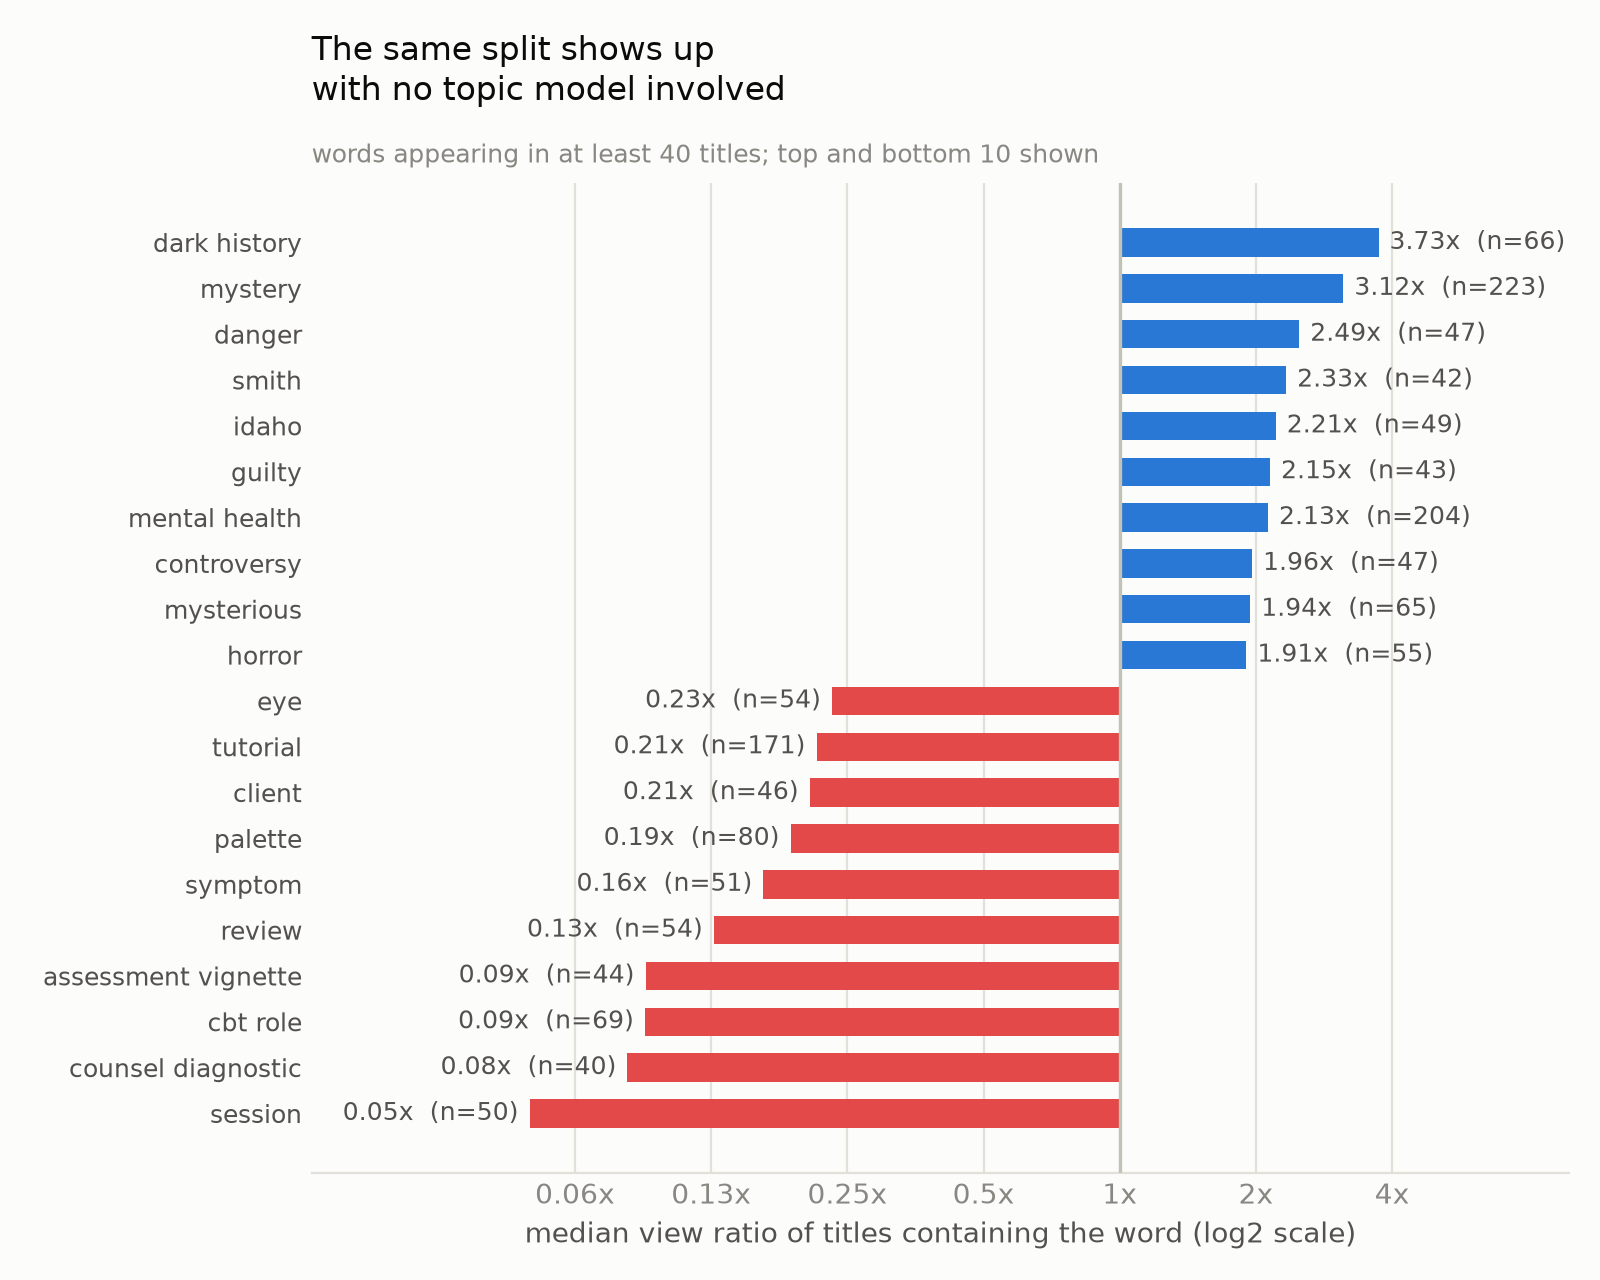
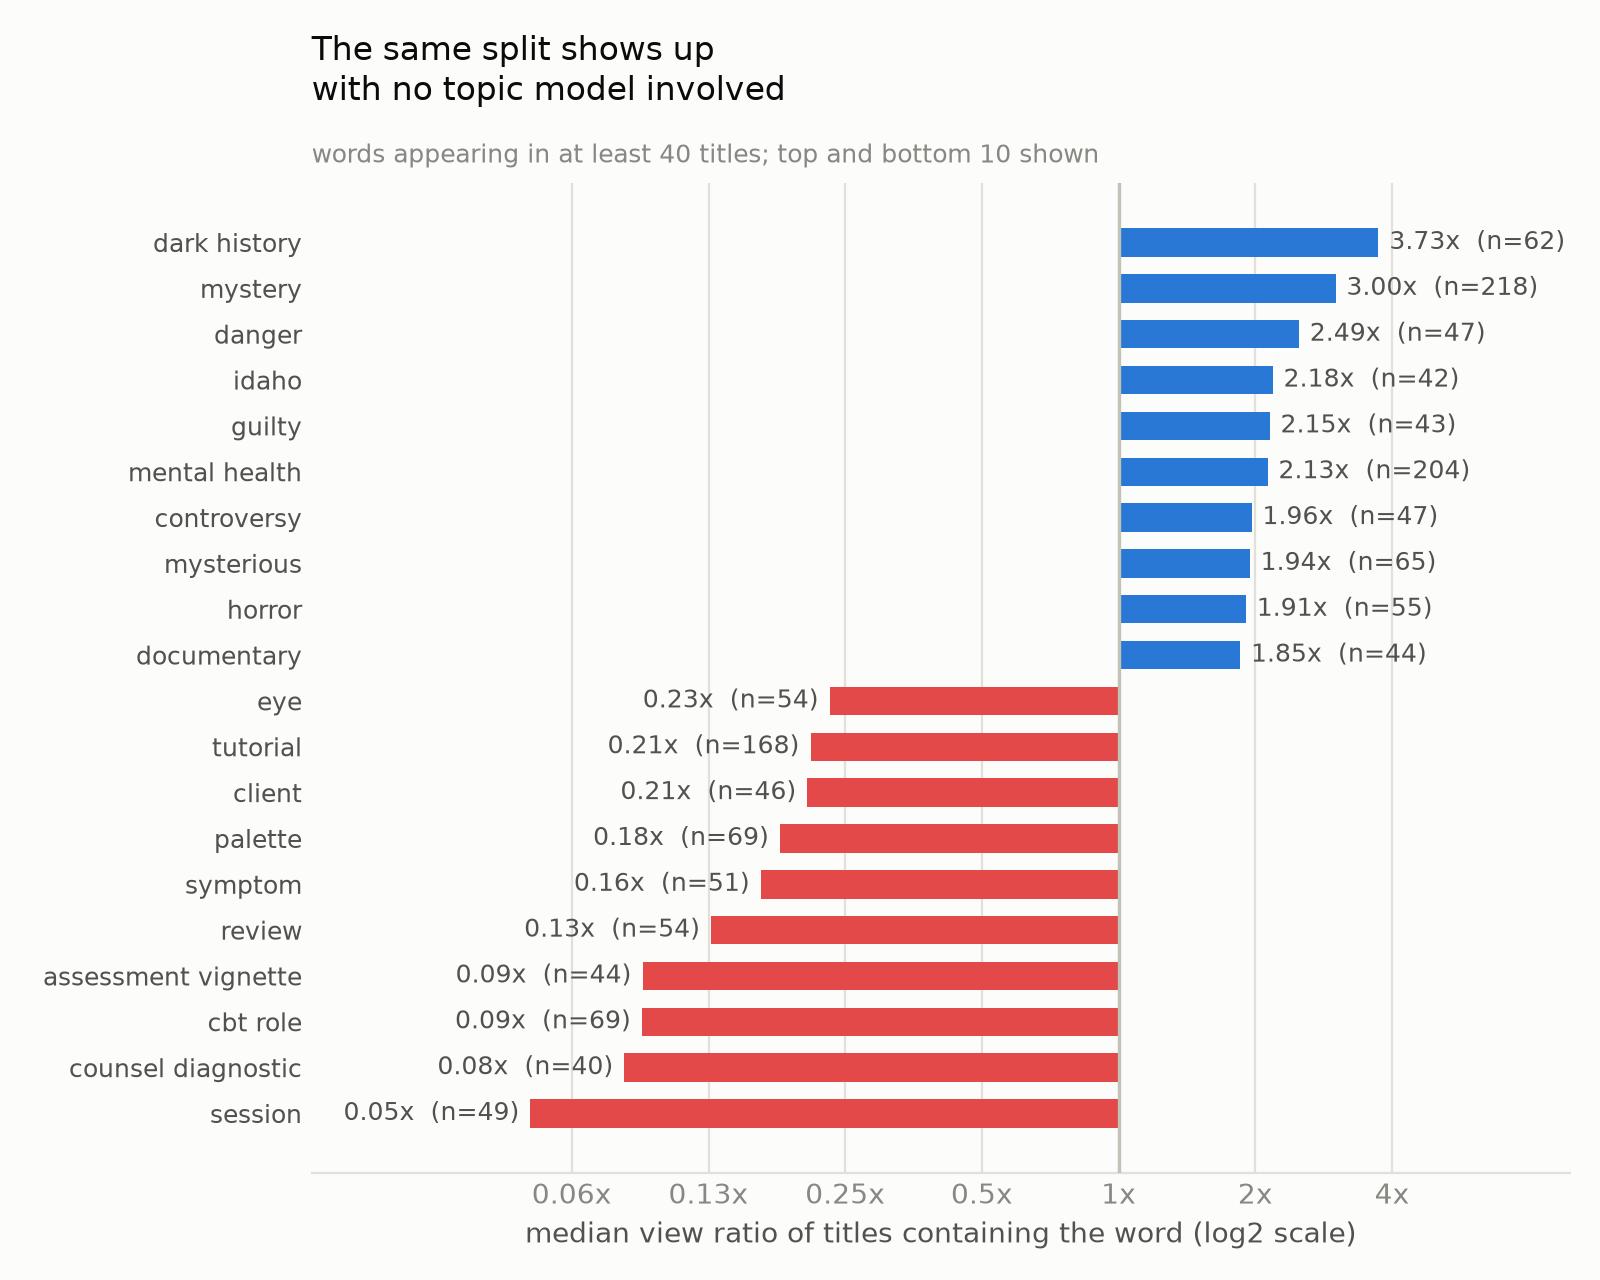
Explain every chart on the slides, and count a word once per title
The slide doc named the figures but never said what a bar or an axis actually
is, so anyone asked "what is that number" during the presentation had nothing to
fall back on. Each figure now gets what it shows, what one bar means worked
through with a real video and its arithmetic, where the numbers were computed,
why the chart is on the slide at all, and a sentence to say if someone points at
it. The overlapping confidence intervals are called out explicitly, because the
top two subjects are not distinguishable and the chart should not be read as a
ranking.

The single-word figures counted a title twice if it used the same word twice, so
"dark history" was reported over 66 rows drawn from 62 titles. Words are now
deduplicated within a title, which is what the report claims they were.

diff --git a/scripts/evaluate_topics.py b/scripts/evaluate_topics.py
@@ -170,12 +170,16 @@ def main() -> None:
 
     # --- [4] single words ------------------------------------------------
     say("[4] SINGLE WORDS  (sanity check, independent of both topic models)")
-    say("    For every word in at least 40 titles: the median view_ratio of the")
-    say("    titles containing it. No model involved, so if the topic story is")
-    say("    real the same themes should appear here.")
+    say("    For every word appearing in at least 40 different titles: the")
+    say("    median view_ratio of those titles. One title counts once per word.")
+    say("    No model is involved, so if the topic story is real the same themes")
+    say("    should appear here too.")
     say()
+    # A word repeated inside one title must not count that title twice, so
+    # each title contributes each of its words once.
+    unique_words = df["tokens"].map(lambda t: sorted(set(t)))
     exploded = df[["view_ratio"]].join(
-        df["tokens"].explode().rename("word")).dropna(subset=["word"])
+        unique_words.explode().rename("word")).dropna(subset=["word"])
     per_word = exploded.groupby("word").agg(
         n=("view_ratio", "size"), median_ratio=("view_ratio", "median"))
     per_word = per_word[per_word["n"] >= 40].sort_values(

diff --git a/scripts/make_figures.py b/scripts/make_figures.py
@@ -129,7 +129,9 @@ def fig_topic_views() -> None:
 def fig_words() -> None:
     docs = pd.read_csv(PROC / "doc_topics.csv")
     docs["tokens"] = docs["tokens"].fillna("").str.split()
-    ex = docs[["view_ratio"]].join(docs["tokens"].explode().rename("word"))
+    # one title counts once per word, even if it repeats the word
+    unique_words = docs["tokens"].map(lambda t: sorted(set(t)))
+    ex = docs[["view_ratio"]].join(unique_words.explode().rename("word"))
     ex = ex.dropna(subset=["word"])
     per = ex.groupby("word").agg(n=("view_ratio", "size"),
                                  med=("view_ratio", "median"))

diff --git a/docs/SLIDES_LSA_LDA.md b/docs/SLIDES_LSA_LDA.md
@@ -5,7 +5,10 @@ Two slides.
 - **Part A** is for whoever builds the slides. Copy the text in the boxes onto
   the slide. Nothing else goes on the slide.
 - **Part B** is what I say out loud. Nobody needs to read it except me.
-- **Part C** explains the words in case someone asks.
+- **Part C** explains every picture: what the numbers mean and how we got them.
+- **Part D** explains the technical words in case someone asks.
+- **Parts E to G** are Q&A prep, where each number came from, and what is still
+  unfinished.
 
 Our group question: **what kind of video title gets the most views?**
 
@@ -147,7 +150,264 @@ Roughly 90 seconds each. Say it in my own words, this is just the shape.
 
 ---
 
-# PART C — the words explained
+# PART C — the three pictures, explained properly
+
+This is the part to read before presenting. If someone points at a chart and
+asks "what is that number", the answer is here.
+
+---
+
+## Picture 1 — `fig1_coherence_vs_k.png` (goes on slide 1)
+
+### What you are looking at
+
+A line chart with two lines.
+
+- **Bottom axis** — how many subjects we asked for. We tried 5, 8, 10, 12, 15,
+  20, 25, 30, 40, 50, 60. Each dot is one of those attempts.
+- **Left axis** — the coherence score, from about 0.28 to 0.45. This is a
+  quality score for the word groups. Higher = the words in each group belong
+  together better.
+- **Blue line with circles** — LDA. **Orange line with squares** — LSA.
+- **Pale blue shading** around the blue line — LDA gives a slightly different
+  answer each time it runs, so we ran it **three times** at every setting. The
+  shading is how much those three runs disagreed.
+- **Dashed vertical line at 20** — the number we chose.
+
+### What one dot means
+
+Take the blue dot above 20. To make that single dot we:
+
+1. asked LDA for exactly 20 subjects,
+2. took the **top 10 words** of each of the 20 subjects,
+3. for every pair of those words, checked how often they appear near each other
+   in the real titles,
+4. averaged it all into one number: **0.415**.
+
+That is it. One dot = one whole model, boiled down to one quality number.
+
+### Where the numbers come from
+
+Everything on this chart is read from `data/processed/k_sweep.csv`, which is
+written by `scripts/topic_models.py`. The full table is in
+`reports/03_model_selection.txt` §2. The key rows:
+
+| subjects (k) | LDA score | LSA score |
+|---|---|---|
+| 5 | 0.350 | 0.281 |
+| 10 | 0.375 | 0.310 |
+| **20** | **0.415** | **0.351** |
+| 30 | 0.420 | 0.350 |
+| 40 | 0.438 | 0.346 |
+| 60 | 0.453 | 0.362 |
+
+Coherence is calculated by gensim's `CoherenceModel`, the standard tool — we did
+not invent the measure.
+
+### Why this picture is on the slide
+
+Because it shows the decision we had to make and why the textbook method failed.
+
+Normally you make this chart, find the highest point, and that is your answer.
+Look at our chart: **there is no highest point.** The line is still climbing at
+60. If we had tested 100 settings the "best" would have been 100. That happens
+with very short documents like titles, and it is worth showing rather than
+hiding.
+
+The pale shading is the second half of the argument. The three runs at each
+setting differ by about **0.011**. Look at the gap between 20 (0.415) and 30
+(0.420) — that is 0.005, *smaller than the disagreement between runs of the same
+setting*. So that "improvement" is not real.
+
+So instead of the highest point we took **the bend** — where the line stops
+climbing steeply and flattens. That is at 20 for both lines.
+
+### How the bend is worked out (in case the teacher asks)
+
+Not by eye. We squash both axes onto a 0-to-1 scale, draw a straight line from
+the first dot to the last dot, and find the dot that sits **furthest above** that
+straight line. That dot is the bend. It is a standard method (the "elbow" or
+"knee" method). The code is the `knee()` function in `scripts/topic_models.py`.
+
+### If someone points at it
+
+> "The blue line is the probability model, orange is the maths one. Both keep
+> rising, which is why we could not just take the highest score. The shaded band
+> is how much the model disagrees with itself between runs — it is as wide as the
+> gaps we would be choosing between. So we took the bend at twenty."
+
+---
+
+## Picture 2 — `fig2_views_by_topic.png` (goes on slide 2, the important one)
+
+### What you are looking at
+
+20 horizontal bars, one for each subject LDA found.
+
+- **Each row** is one subject. The label shows its number and its top 3 words,
+  e.g. `10  mystery, serial_killer, murder`.
+- **The line down the middle is 1.0** — a completely normal video for its
+  channel.
+- **Blue bars point right** = that subject gets **more** views than normal.
+- **Red bars point left** = that subject gets **fewer** views than normal.
+- **The number at the end of each bar** (1.36×, 0.45×) is how many times the
+  normal views that subject gets.
+- Bars are sorted best at the top, worst at the bottom.
+
+### What one bar means — a real worked example
+
+Take the top bar, subject 7, at **1.36×**.
+
+LDA assigned **185 titles** to subject 7. For every one of those titles we
+already know its view ratio. We sorted those 185 ratios and took the middle one.
+The middle one is this video:
+
+> **"How a Game Show Solved a Double Homicide"** — Joshua Miles, 111,924 views
+
+Joshua Miles' normal video gets **82,150** views. So:
+
+```
+111,924 ÷ 82,150 = 1.36
+```
+
+That is the whole calculation. The bar is 1.36 because the middle video of that
+subject got 1.36 times its channel's normal views.
+
+We use the **middle value (median)**, not the average, on purpose. One viral
+video can be 56× normal, and an average would let that single video drag the
+whole subject up. The middle value ignores freaks like that.
+
+### How a title ends up in a subject
+
+LDA does not give a title one subject — it gives percentages, like "45% subject
+10, 30% subject 16, 25% spread over the rest". For this chart we put each title
+in **whichever subject has the highest percentage**. Simple, and easy to explain.
+
+(This does throw information away, which is why we also did the statistical test
+that uses all the percentages at once. That is the 6% number.)
+
+### Where the numbers come from
+
+`scripts/evaluate_topics.py` writes `data/processed/topic_views.csv`, and the
+chart is drawn from that file by `scripts/make_figures.py`. The same table with
+extra columns is in `reports/05_views_by_topic.txt` §2. Selected rows:
+
+| subject | titles in it | view ratio | top words |
+|---|---|---|---|
+| 7 | 185 | **1.36×** | say, boyfriend, real, shoot, guilty |
+| 10 | 465 | 1.32× | mystery, serial_killer, murder, unsolved |
+| 8 | 304 | 1.29× | victim, case, chris, boy, robert |
+| … | | ~1.0× | the middle of the chart |
+| 11 | 354 | 0.59× | face, interview, tutorial, history |
+| 3 | 302 | 0.46× | look, find, body, palette |
+| 12 | 622 | **0.45×** | short, test, love, parent, help |
+
+**3× gap** = 1.36 ÷ 0.45.
+
+### Why this picture is on the slide
+
+It *is* our answer. Everything else is method; this is the finding. And the shape
+of it makes the point instantly — you can see the blue block at the top is all
+crime storytelling and the red block at the bottom is all teaching content,
+without reading a single number.
+
+### The one thing to be careful about
+
+In `reports/05_views_by_topic.txt` each row also has square brackets, like
+`1.36 [1.22, 1.63]`. That is how sure we are about that bar. We got it by
+re-drawing the 185 titles at random 2,000 times and seeing how much the middle
+value moved.
+
+**If two subjects' brackets overlap, we cannot say one really beats the other.**
+Subject 7 (1.36) and subject 10 (1.32) overlap — they are joint top, not first
+and second. Read the chart as *top group / middle / bottom group*, and never say
+"subject 7 is the winner".
+
+### If someone points at it
+
+> "The line in the middle is a normal video for that channel. Blue beats normal,
+> red loses to normal. Each bar is the middle video of that subject, so one viral
+> hit cannot inflate it. The top bar means: the middle video about a real case
+> with a courtroom angle got 36% more views than that channel's normal video."
+
+---
+
+## Picture 3 — `fig3_words_by_views.png` (backup slide only)
+
+### What you are looking at
+
+The same idea as picture 2, but with **no model at all** — just single words.
+
+- **Each row is one word** from the titles. The 10 best at the top, the 10 worst
+  at the bottom.
+- Same middle line at 1× = normal for the channel.
+- **`(n=62)`** means that word appears in 62 different titles.
+- The bottom axis is squashed (a log scale) because the range is huge — from
+  0.05× to 3.7×. Without squashing, everything on the left would be an invisible
+  sliver.
+
+### What one bar means
+
+Take **`dark history`**, at the top, 3.73×.
+
+We found every title containing "dark history" — **62** of them. We took the view
+ratio of each, sorted them, and took the middle one: **3.73**. So the middle
+video with "dark history" in its title got 3.7 times its channel's normal views.
+
+At the other end, **`session`** appears in 49 titles and its middle video got
+**0.05×** — one twentieth of normal. Those are counselling role-play videos.
+
+A word needs at least **40 titles** to appear on this chart. Below that the
+middle value bounces around too much to mean anything.
+
+`dark history` is two words joined because our preprocessing detected that they
+almost always appear together, so it treats them as one term. Same for
+`mental health` and `serial killer`.
+
+### Where the numbers come from
+
+`scripts/evaluate_topics.py` §4, listed in `reports/05_views_by_topic.txt`.
+`scripts/make_figures.py` redraws the same calculation for the chart.
+
+### Why this picture exists
+
+This is the honesty check, and it is the strongest thing in my part.
+
+Someone can always say "you got that result because you chose LDA" or "because
+you chose 20 subjects". This chart has **no model in it**. No LSA, no LDA, no
+choice of k — just counting words and looking up view numbers. And it shows the
+same split: crime and mystery words at the top, tutorial and therapy words at the
+bottom.
+
+So the finding is in the data, not in our modelling choices. That is worth one
+sentence in the presentation even if the chart stays on a backup slide.
+
+### If someone points at it
+
+> "This one has no topic model in it at all. We just took each word, found the
+> titles containing it, and looked at the middle view ratio. The same split
+> appears, which tells us the result is not something our model invented."
+
+---
+
+## The one number that is NOT on any picture
+
+**The 6% (R² = 0.064).** It comes from a statistical test, not a chart.
+
+What we did: instead of forcing each title into one subject, we used all 20
+percentages for all 9,785 titles at once, and asked how much of the difference in
+views they can account for. The answer is 6%.
+
+Why we mention it: it stops us overselling. The subject of a title genuinely
+matters — the effect is far too consistent to be luck — but 94% of why a video
+gets views is thumbnail, timing, and how famous the case already was. Saying this
+before the teacher does is worth more than hoping nobody asks.
+
+It is in `reports/05_views_by_topic.txt` §3.
+
+---
+
+# PART D — the words explained
 
 Plain versions, in case someone in the group asks or the teacher does.
 
@@ -192,7 +452,7 @@ nothing for the subject. We delete them.
 
 ---
 
-# PART D — questions we might get
+# PART E — questions we might get
 
 **Why not just take the best coherence score?**
 Because the score never stopped rising. It was still going up at sixty groups. If
@@ -245,7 +505,7 @@ why one channel being 28% of the data matters so much.
 
 ---
 
-# PART E — where every number comes from
+# PART F — where every number comes from
 
 If anyone asks "where did you get that", this is the answer. Everything
 regenerates when the scripts are run; nothing was typed by hand.
@@ -269,8 +529,8 @@ regenerates when the scripts are run; nothing was typed by hand.
 | 0.45× worst subject | §2 | middle value of the 622 titles in that subject |
 | 3× gap | §2 | 1.36 ÷ 0.45 |
 | 6% explained | §3 | statistical model using all 20 subjects at once |
-| "dark history" 3.73× | §4 | middle value of the 66 titles containing it |
-| "session" 0.05× | §4 | middle value of the 50 titles containing it |
+| "dark history" 3.73× | §4 | middle value of the 62 titles containing it |
+| "session" 0.05× | §4 | middle value of the 49 titles containing it |
 
 **About the little brackets on the chart** (`[1.22, 1.63]`): those show how sure
 we are. If two subjects' brackets overlap, we cannot really say one beats the
@@ -278,7 +538,7 @@ other — read the chart in groups of similar bars, not as a strict ranking.
 
 ---
 
-# PART F — not finished yet
+# PART G — not finished yet
 
 **1. The human check still needs the group.** The rubric gives 25 points for
 topic evaluation and asks specifically for human evaluation. I built the test but
